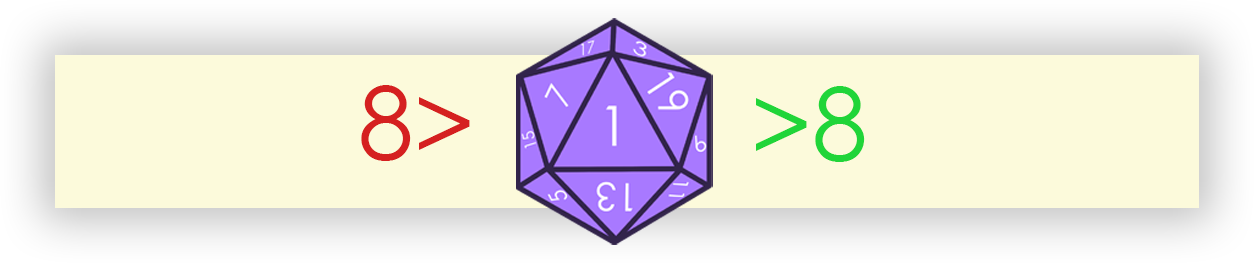
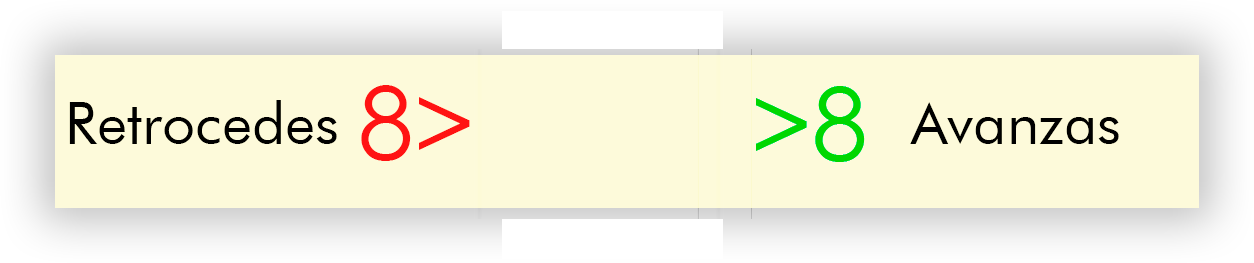
*Auto handshake*

Changed region(s): [[0.3732, 0.0608, 0.9019, 0.943], [0.0311, 0.3042, 0.3732, 0.6084]]

diff --git a/src/scenes/play.js b/src/scenes/play.js
@@ -136,9 +136,9 @@ export class Play extends Phaser.Scene {
     proxcasjg3 = 0;
     this.Casillas = [proxcasjg1, proxcasjg2, proxcasjg3];
     scoreac = 0;
-    scorejg1 = 10;
-    scorejg2 = 20;
-    scorejg3 = 10;
+    scorejg1 = 0;
+    scorejg2 = 0;
+    scorejg3 = 0;
     this.Puntajes = [scorejg1, scorejg2, scorejg3];
     this.Siguiente = [1, 2, 0];
     this.Cartulis = ["1","1","2","3","4","5","6","7","8","9","10","11","12","13","11","15","16",
@@ -304,7 +304,7 @@ export class Play extends Phaser.Scene {
     roja(){
       let dado20 = this.d20()
       this.CartasRojas.conseguir().play('dado20anim');
-      this.imprimirD20(dado20, 1.65);
+      this.imprimirD20(dado20, 1.6);
       if (dado20 >= 10) {
         this.Puntajes[JTurno]+=10;
       } else {
@@ -337,7 +337,7 @@ export class Play extends Phaser.Scene {
     amarilla(proxcas, pos){
       let dado20 = this.d20()
       this.CartasAmarillas.conseguir().play('dado20anim');
-      this.imprimirD20(dado20, 1.46);
+      this.imprimirD20(dado20, 1.4);
       if (dado20 >= 8) {
         const numcas = parseInt(proxcas) + 2;
         let casPoint = this.tablero.findObject("Objetos", (obj) => obj.type == (numcas.toString()));
@@ -407,7 +407,7 @@ export class Play extends Phaser.Scene {
     }
     imprimirD20(DNum, dimensionY){
       setTimeout(() => {
-      this.d20texto = this.add.text(this.cameras.main.centerX, this.cameras.main.centerY*dimensionY, DNum)
+      this.d20texto = this.add.text(this.cameras.main.centerX*0.985, this.cameras.main.centerY*dimensionY, DNum)
       .setStyle({ 
           backgroundColor: '#a879ff', fontSize: '50px', 
           fontFamily: 'Arial'

diff --git a/src/js/cartasam.js b/src/js/cartasam.js
@@ -2,9 +2,11 @@ class CartaAm {
     fondocarta;
     boton2;
     boton3;
+    daduli;
     constructor(x, y, img1, scene, callback1, callback2) {
             this.fondocarta = scene.add.image(x, y, img1).setScale(0.5),
-            this.boton2 = scene.add.sprite(x*1, y*1.46, 'botonam1').setScale(0.5)
+            this.boton2 = scene.add.sprite(x*1, y*1.46, 'botonam1').setScale(0.5),
+            this.daduli = scene.add.sprite(x*1, y*1.46, 'dado20icon').setScale(0.2)
             .setInteractive({ useHandCursor: true })
             .on('pointerdown', () => this.desactivar(callback1)),
             this.boton3 = scene.add.image(x*1, y*1.66, 'botonam2').setScale(0.5)
@@ -13,16 +15,17 @@ class CartaAm {
         }
         desactivar(callback1){
             callback1();
-            this.boton2.disableInteractive();
+            this.daduli.disableInteractive();
             this.boton3.disableInteractive();
         }
         desaparecer(){
             this.fondocarta.visible = false;
+            this.daduli.visible = false;
             this.boton2.visible = false;
             this.boton3.visible = false;
         }
         conseguir(){
-            return this.boton2;
+            return this.daduli;
         }
     }
 

diff --git a/src/js/cartasro.js b/src/js/cartasro.js
@@ -1,22 +1,25 @@
 class CartaRo {
     fondocarta;
     boton2;
+    daduli;
     constructor(x, y, img1, scene, callback1) {
             this.fondocarta = scene.add.image(x, y, img1).setScale(0.5),
-            this.boton2 = scene.add.sprite(x*1, y*1.65, 'botonro1').setScale(0.5)
+            this.boton2 = scene.add.sprite(x*1, y*1.65, 'botonro1').setScale(0.5),
+            this.daduli = scene.add.sprite(x*1, y*1.65, 'dado20icon').setScale(0.2)
             .setInteractive({ useHandCursor: true })
             .on('pointerdown', () => this.desactivar(callback1));
         }
         desactivar(callback1){
             callback1();
-            this.boton2.disableInteractive();
+            this.daduli.disableInteractive();
         }
         desaparecer(){
             this.fondocarta.visible = false;
             this.boton2.visible = false;
+            this.daduli.visible = false;
         }
         conseguir(){
-            return this.boton2;
+            return this.daduli;
         }
     }
 export default CartaRo;

diff --git a/src/scenes/preloads.js b/src/scenes/preloads.js
@@ -34,6 +34,7 @@ export class Preloads extends Phaser.Scene {
     this.load.image('tablero_bg','assets/images/tablero_bg.png');
     this.load.image('tablero_blur','assets/images/tablero_blur.png');
     this.load.image('ayuda_bg','assets/images/ayuda_bg.png');
+    this.load.image('ayuda2_bg','assets/images/ayuda2_bg.png');
     this.load.image('nubes_bg','assets/images/nubes.png');
     this.load.image('victoria_bg','assets/images/victoria_bg.png');
     //Casilla y pjs
@@ -102,6 +103,7 @@ export class Preloads extends Phaser.Scene {
     this.load.image('credit','assets/images/creditos.png');
     this.load.image('saltote','assets/images/saltote.png');
     this.load.image('dadoicon','assets/images/dado1.png');
+    this.load.image('dado20icon','assets/images/dado20.png');
     this.load.image('dadoclick','assets/images/dado2.png');
     this.load.image('tuerca','assets/images/tuerca.png');
     //HUD

diff --git a/src/scenes/ayuda2.js b/src/scenes/ayuda2.js
@@ -15,7 +15,7 @@ export class Ayuda2 extends Phaser.Scene {
         let spawnPoint = tablero.findObject("Botones", (obj) => obj.name == ('Ayuda'));
         this.add.image(this.cameras.main.centerX,
             this.cameras.main.centerY,
-                 'ayuda_bg').setScale(1);
+                 'ayuda2_bg').setScale(1);
         var cam = this.cameras.main;
         var targetScene = this.scene.get("Ayuda"); // sleeping
         var targetCam = targetScene.cameras.main;
